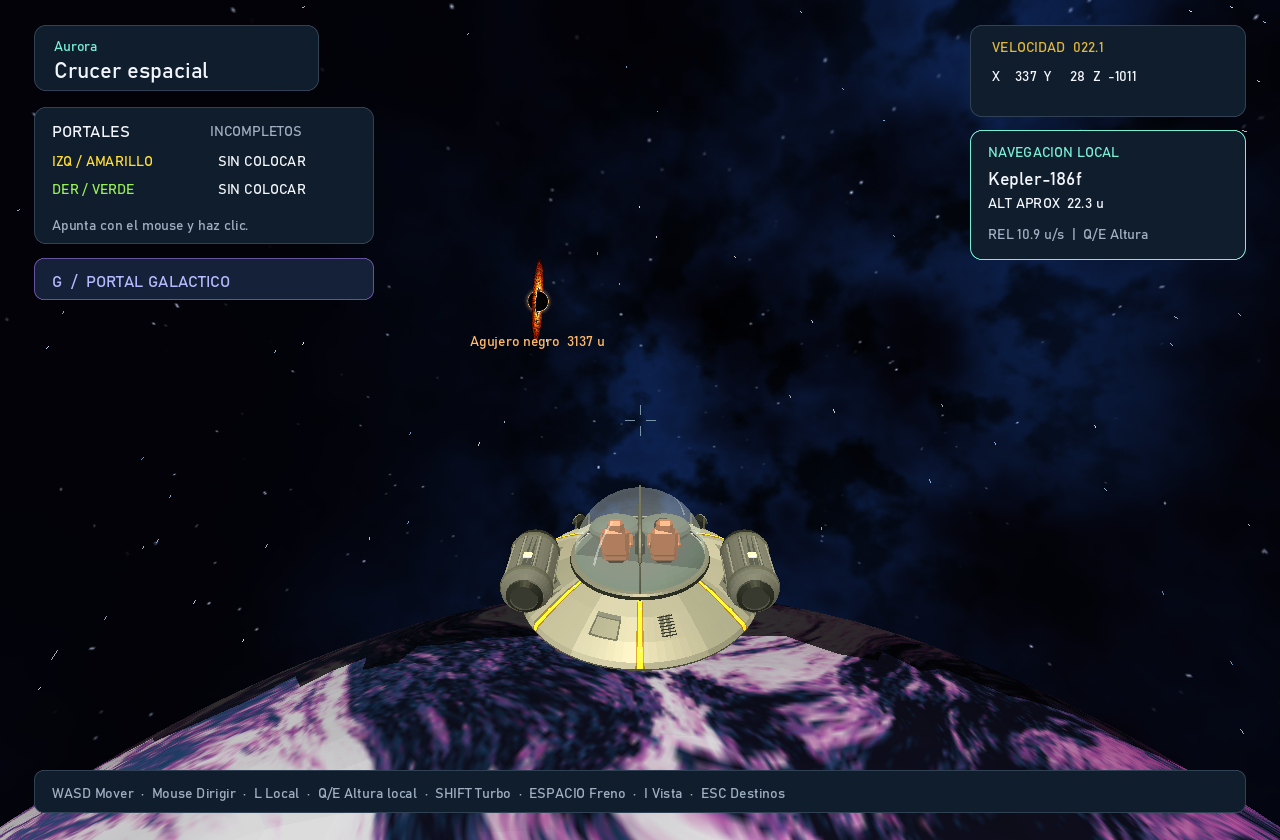
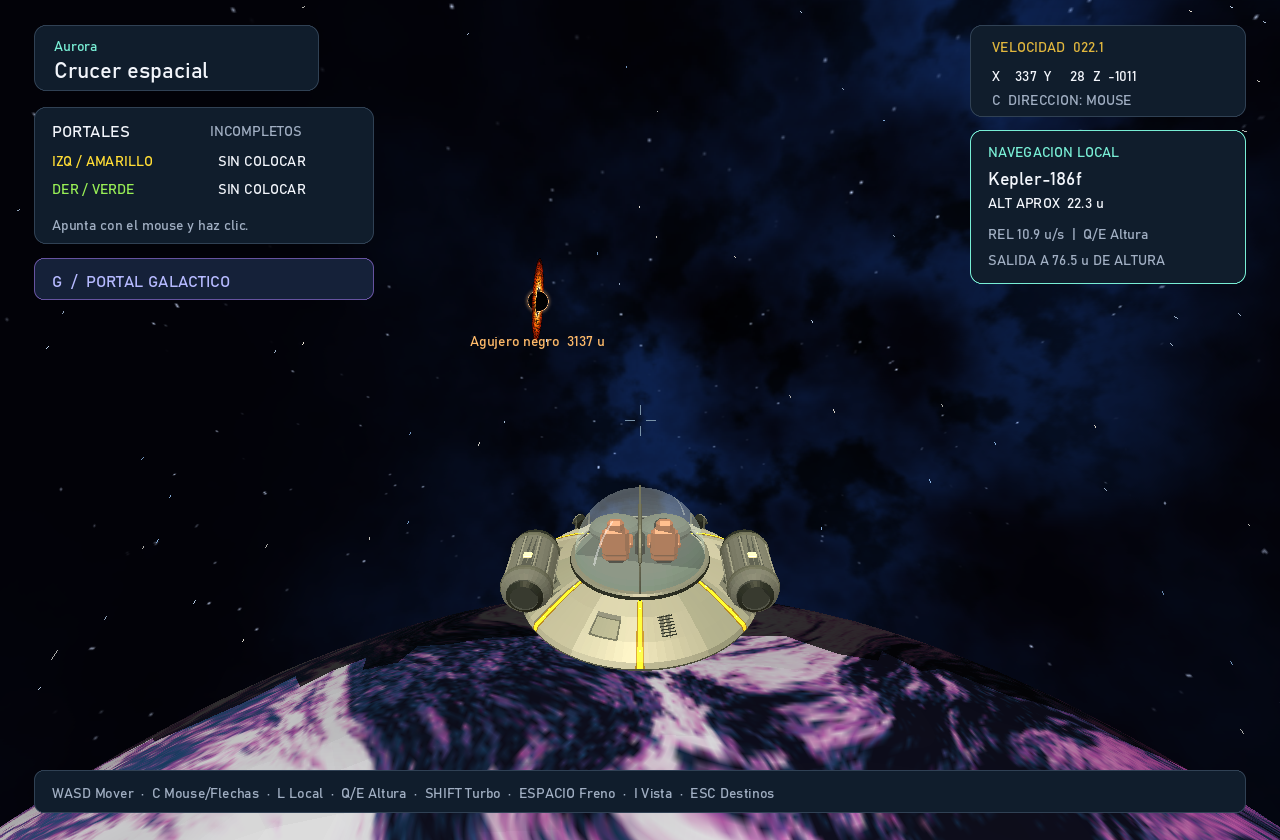
docs: actualizar controles y radio de salida de navegacion local

Changed region(s): [[0.125, 0.9286, 0.625, 0.9595], [0.7812, 0.2786, 0.9062, 0.3405], [0.7812, 0.0929, 0.875, 0.1238]]

diff --git a/README.md b/README.md
@@ -81,7 +81,9 @@ La organización del mapa toma como referencia la navegación y la información 
 
 | Tecla | Acción |
 | --- | --- |
-| Mouse | Dirigir la nave: izquierda/derecha para girar, arriba/abajo para subir o bajar |
+| `C` | Alternar la dirección entre mouse y flechas; el HUD indica el modo activo |
+| Mouse | En modo mouse: dirigir la nave según la posición respecto al centro |
+| Flechas | En modo flechas: izquierda/derecha giran, arriba/abajo inclinan la proa |
 | Mouse al centro | Mantener el rumbo recto |
 | `W` / `S` | Avanzar / retroceder según la dirección de la nave |
 | `A` / `D` | Desplazarse lateralmente a izquierda / derecha |
@@ -99,6 +101,12 @@ La nave comienza detenida y se desplaza mientras mantienes WASD. Puedes combinar
 
 El mouse dirige la nave sin mantener clic. La posición del cursor respecto al centro controla el giro: cuanto más lo alejas, más rápido gira; al volver al centro, mantiene el rumbo. Una pequeña zona neutra evita movimientos involuntarios. Al salir el cursor de la ventana, el giro se suaviza hasta detenerse. Para subir o bajar, apunta con el mouse y avanza con `W`.
 
+Pulsa **C** para elegir dirección con flechas. En este modo el mouse sigue
+permitiendo apuntar a los elementos de la interfaz y colocar portales con clic,
+pero su posición no dirige la nave. Mantén las flechas para girar o inclinar la
+proa; al soltarlas, el giro se suaviza hasta detenerse. Cambiar de modo cancela
+el giro pendiente. La selección se conserva al reaparecer y cambiar de destino.
+
 La cámara está detrás y ligeramente por encima de la nave, mirando de la cola hacia la proa. Sigue los cambios de dirección con suavidad y la nave inclina las alas al girar. Las tres naves se dibujan en perspectiva y las estrellas se desplazan según la posición y velocidad reales, con estelas al avanzar. El HUD muestra posición y velocidad. El vuelo se pausa mientras inspeccionas la nave o la ventana pierde el foco.
 
 ### Navegación local cerca de un planeta
@@ -106,7 +114,9 @@ La cámara está detrás y ligeramente por encima de la nave, mirando de la cola
 Al acercarte, el panel derecho muestra el planeta de referencia, la altura
 aproximada y la disponibilidad de **L**. Al activarlo, WASD desplaza la nave
 tangencialmente alrededor del planeta; **Q** baja y **E** sube. El mouse permite
-orientar la nave y observar el entorno. **Espacio** frena el movimiento relativo
+orientar la nave y observar el entorno, o puedes usar las flechas mediante **C**.
+Inclinar la proa permite mirar el terreno; **Q/E** cambia la altura en modo local.
+**Espacio** frena el movimiento relativo
 al planeta y **Shift** proporciona un impulso local moderado.
 
 La velocidad y la sensibilidad de giro disminuyen cerca del terreno. La nave
@@ -122,7 +132,15 @@ Esta asistencia de navegación utiliza un marco móvil y no añade gravedad
 planetaria.
 
 Pulsa **L** otra vez para volver al vuelo espacial conservando posición y
-velocidad. El modo se desactiva al alejarse de su zona, atravesar un portal,
+velocidad. La zona de activación permite una altura de `max(30, radio × 0.6)`.
+El radio de salida, medido desde el centro, suma el radio del planeta, el radio
+de colisión de la nave y una altura de salida de `max(30, radio × 0.6) + max(15, radio × 0.25)`.
+Ese margen evita alternar repetidamente entre modos en el borde. En Kepler-186f
+la activación llega a 54 unidades de altura y la salida ocurre al superar 76.5;
+el HUD muestra ese límite. Al salir se libera la referencia de inclinación local
+y la proa vuelve a responder en el marco espacial.
+
+El modo se desactiva al superar ese radio, atravesar un portal,
 reaparecer o cargar otro destino. No se activa en el sol ni con una nave destruida
 o absorbida. Inspeccionar o perder el foco pausa el movimiento y conserva el modo.
 
@@ -285,7 +303,9 @@ Las pruebas de `cargo test` comprueban los giros completos del hangar, pausa/rea
 Las pruebas de navegación local verifican una circunnavegación completa con la
 órbita y colisiones de Kepler-186f a 10 y 60 FPS, conservación de altura,
 orientación del horizonte, ascenso, frenado, salida sin teletransporte y descenso
-contra la superficie real.
+contra la superficie real. También cubren contacto seguido de ascenso y nuevo
+descenso, recuperación de la inclinación al abandonar el radio local y selección
+de dirección con flechas sin interferencia del mouse.
 
 ## Integración y procedencia
 
